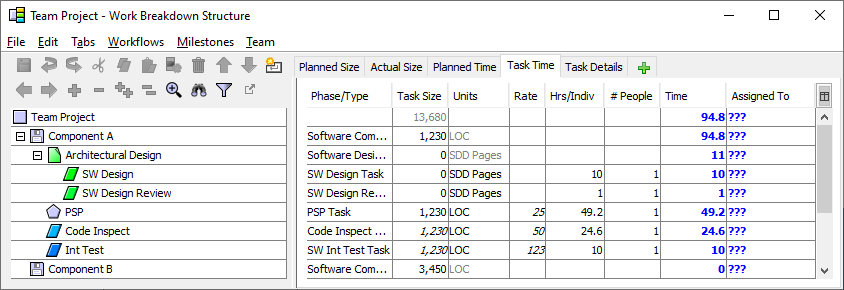
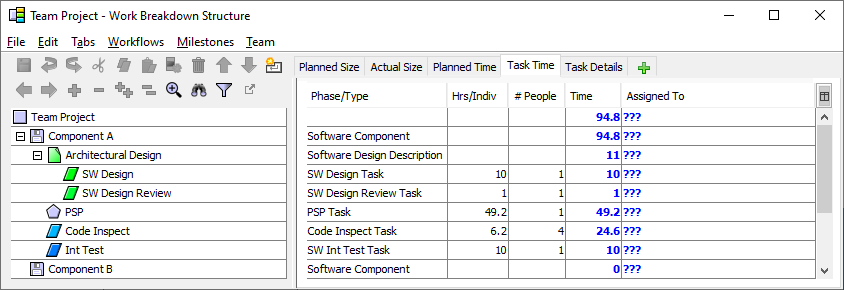
Update help to reflect the removal of workflow rate functionality
Workflow rates have been removed for new projects, so help verbiage and
screen captures and should no longer mention or depict them.

diff --git a/teamdash/Templates/teamhelp/Topics/CreateBalancedPlan.html b/teamdash/Templates/teamhelp/Topics/CreateBalancedPlan.html
@@ -34,16 +34,38 @@ upcoming project phase or cycle.  If you did not previously have any
 documents in your work breakdown structure, you may find that you wish
 to add some at this point.</p>
 
+<p>If any components in the upcoming iteration are still lacking time
+estimates, your team should produce them.  These can be quickly
+generated by using <a href="PlanProjectStrategy.html#proxies">proxy
+estimation tables</a> on the Task Details tab.  If you don't have any
+estimation tables, or if the estimate generated by the table doesn't
+seem quite right, use engineering judgement to produce your best
+estimate of the time needed for a WBS item, and enter this estimate on
+the Task Time tab.  If you find yourself switching tabs often, create
+a <a href="EditingWBSMetrics.html#customTabs">custom tab</a> to gather
+the columns you use most.</p>
+
 <h2><a name="tasks"></a>Creating, Estimating, and Assigning Tasks</h2>
 
 <p>Once the components are refined to the team's satisfaction, the
-team is ready to plan the tasks involved in performing the work. The
-simplest way to accomplish this is to apply the common
+team is ready to plan the tasks involved in performing the work.</p>
+
+<p>The simplest way to accomplish this is to apply the common
 processes/workflows defined earlier. Simply select one or more WBS
 items, then select an appropriate process/workflow from the Workflow
 menu. The contents of the given workflow will be inserted as children
-underneath each selected WBS item. For more information, see the <a
+underneath each selected WBS item, and the component time estimate
+will be spread across the tasks according to the percentages you
+entered in the workflow editor. For more information, see the <a
 href="InsertingWorkflows.html">inserting workflows</a> help topic.</p>
+
+<p class="figure"><img src="../Images/workflow-insert-example-after.png"></p>
+
+<p>Tasks can also be created directly by adding new rows to the WBS,
+clicking the icon to the left of the WBS item name, and choosing a
+Task type from the submenu.</p>
+
+<p class="figure"><img  src="../Images/wbs-icon-menu.png"></p>
 
 <p>When creating tasks, you have the option of using PSP Tasks. PSP
 Task items are automatically translated into PSP2.1 projects in an
@@ -64,24 +86,7 @@ less. PSP Task elements, however, will be automatically subdivided
 into phases when they are copied into an individual's schedule. Thus,
 it is acceptable for PSP Tasks to be larger than 10 hours.</p>
 
-<p>If your WBS items included sizes and your process/workflow
-definitions included <a href="EditWorkflows.html#rate">productivity
-rates</a>, these numbers will be used to calculate preliminary time
-estimates for the tasks inserted via the process/workflow. You need
-not accept these preliminary estimates. Instead, examine each task as
-a team and decide whether the estimate seems reasonable, editing
-values as necessary. These times are most easily viewed and edited on
-the Task Time tab.</p>
-
 <p class="figure"><img src="../Images/wbs-with-time-estimates.png"></p>
-
-<p>If your workflow definitions <a href="EditWorkflows.html#pct">included
-percentages but did not include rates</a>, your team should use engineering
-judgement or <a href="PlanProjectStrategy.html#proxies">proxy estimation
-tables</a> to produce your best estimate of the time needed for a WBS item,
-and enter this estimate on the Task Time tab.  The WBS will spread your
-time estimate across the tasks in the workflow according to the percentages
-you entered in the Workflow editor.</p>
 
 <p>These workflow tools make it very easy to create a large number of
 tasks quickly.  Unfortunately, if teams aren't paying attention, they

diff --git a/teamdash/Templates/teamhelp/Topics/InsertingWorkflows.html b/teamdash/Templates/teamhelp/Topics/InsertingWorkflows.html
@@ -15,7 +15,7 @@ of the selected workflow will be added as children of the selected
 target WBS item. For example, suppose you have the following defined
 process:
 
-<p class="figure"><img src="../Images/workflow-rate-example.png"></p>
+<p class="figure"><img src="../Images/workflow-insert-example.png"></p>
 
 <p>and the following WBS:</p>
 
@@ -60,10 +60,10 @@ example:</p>
 <p>This also means, however, that if you use the Common Team Workflows Editor
 to alter the definition of a process/workflow later, those changes will not
 automatically be propagated into the team's WBS.  For example, if you were to
-open the Common Team Workflows Editor and delete the Compile step from the
+open the Common Team Workflows Editor and delete the Planning step from the
 definition of the "Simple Process" workflow shown above, that change would not
 automatically affect the list of tasks under Component B.  It would continue
-to include a Compile step.</p>
+to include a Planning step.</p>
 
 <p>If you make a change to a workflow and you <b>would</b> like that change to
 propagate into the WBS, use the "Reapply Workflow" option on the workflow
@@ -101,7 +101,7 @@ update them to match the current workflow definitions.</li>
 </ul>
 
 <p>You can optionally choose to update task time estimates based on the latest
-workflow rates/percentages.</p>
+workflow percentages.</p>
 
 </body>
 </html>

diff --git a/teamdash/Templates/teamhelp/Topics/PlanProjectStrategy.html b/teamdash/Templates/teamhelp/Topics/PlanProjectStrategy.html
@@ -58,13 +58,11 @@ your conceptual design into the WBS, you should align the tasks you
 create underneath the appropriate high-level components from the
 master project whenever it makes sense to do so.</p>
 
-<p>Most of the items you enter during conceptual design will be
-software components. These items appear in the WBS with a small floppy
-disk icon (<img border=0 width=13 height=13
-src="../Images/icon-floppy.png">). If your conceptual design includes
-documents or tasks, you can alter the type of an item by clicking on
-the icon. A menu will appear that you can use to change the WBS item
-type.</p>
+<p>Your conceptual design may include various components and documents.
+You can alter the type of a WBS item by clicking the node to the left
+of its name; a menu will appear that you can use to change the item
+type.  If you're uncertain, you can reuse the generic Component type
+for most items in your conceptual design.</p>
 
 <p>To complete the conceptual design, the team may wish to produce
 rough size estimates for each item in the WBS. You can enter this data
